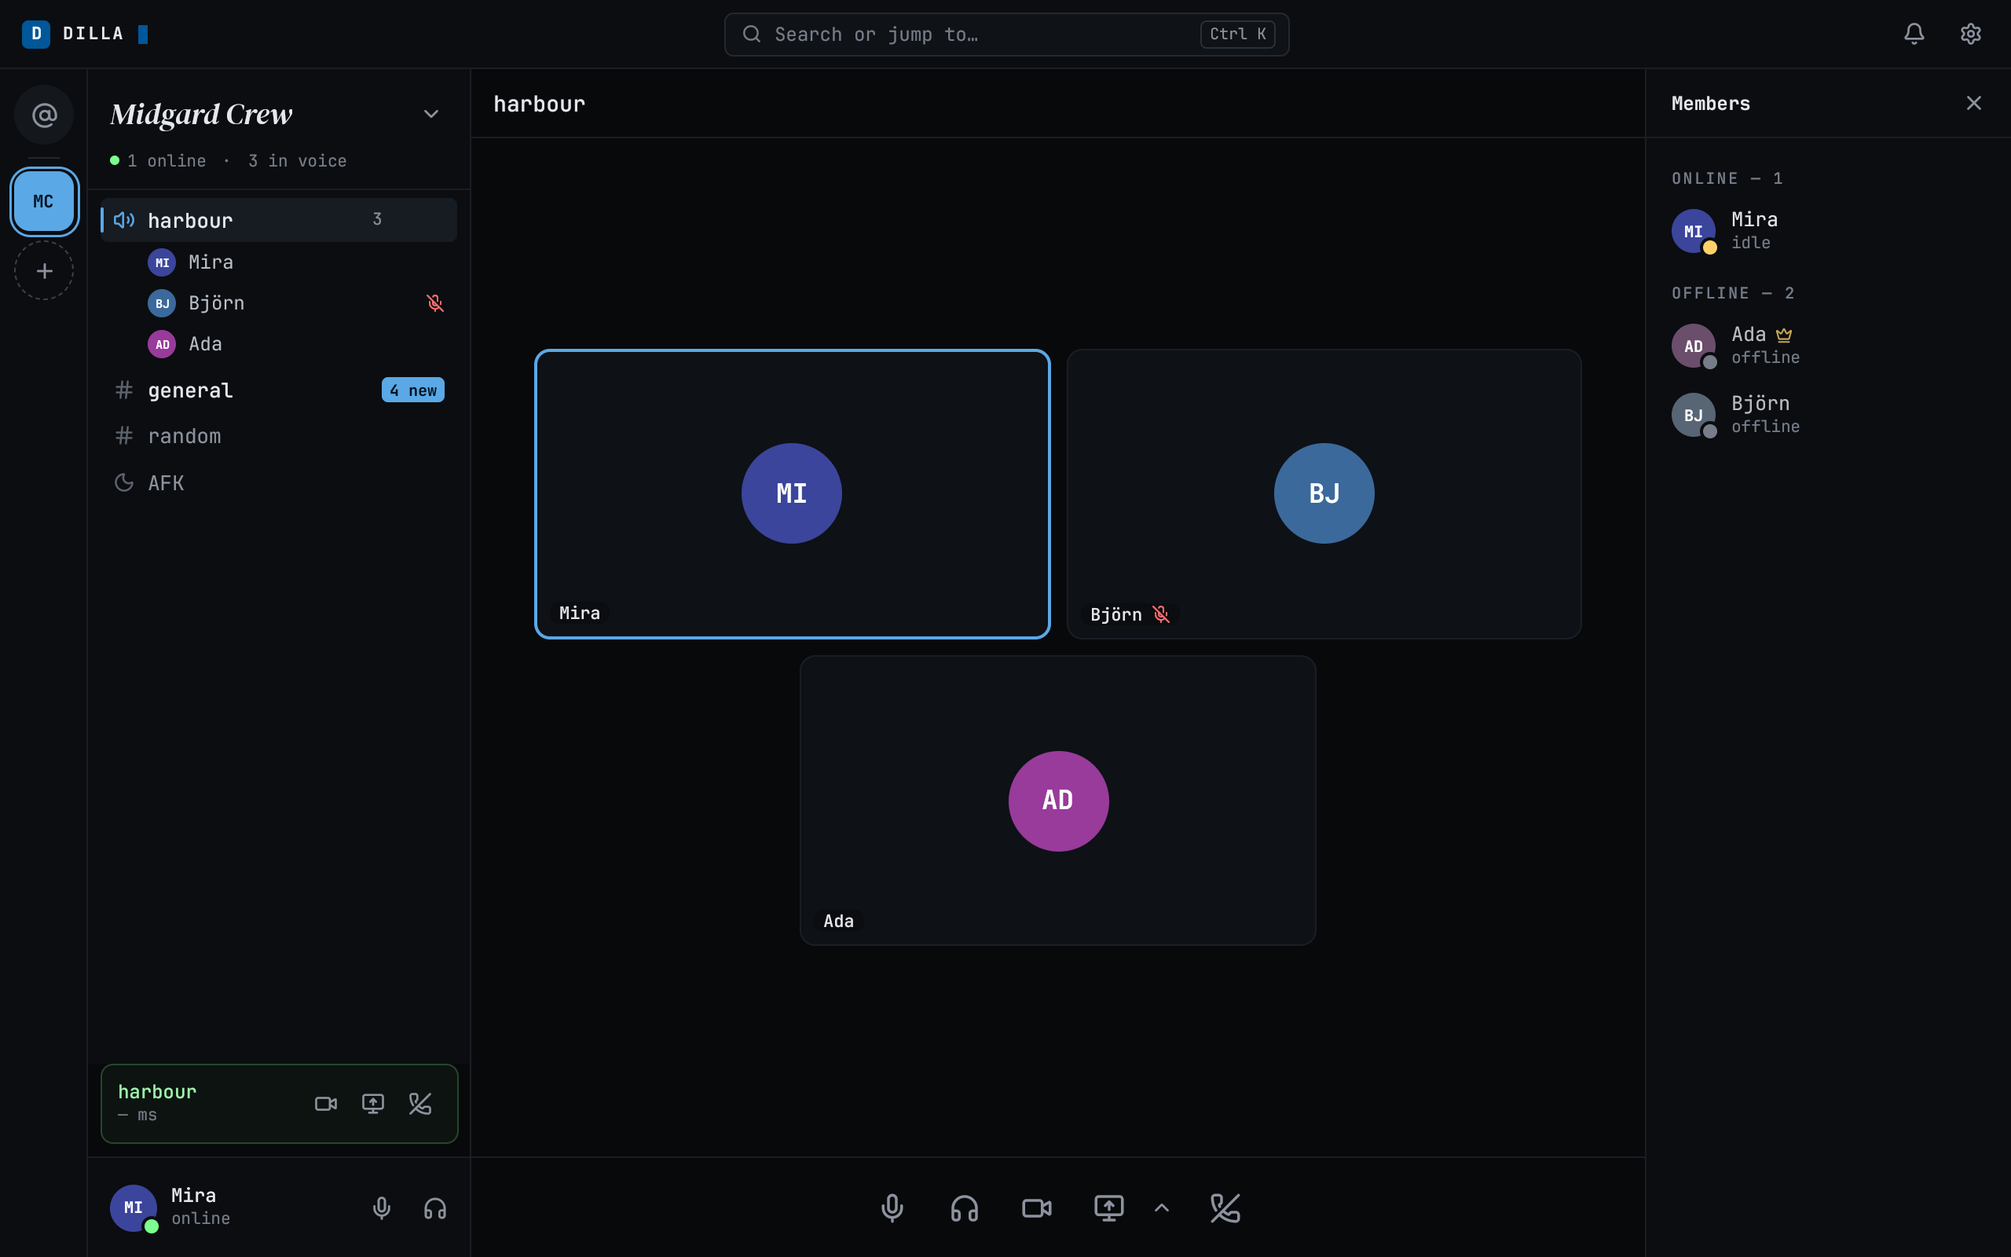
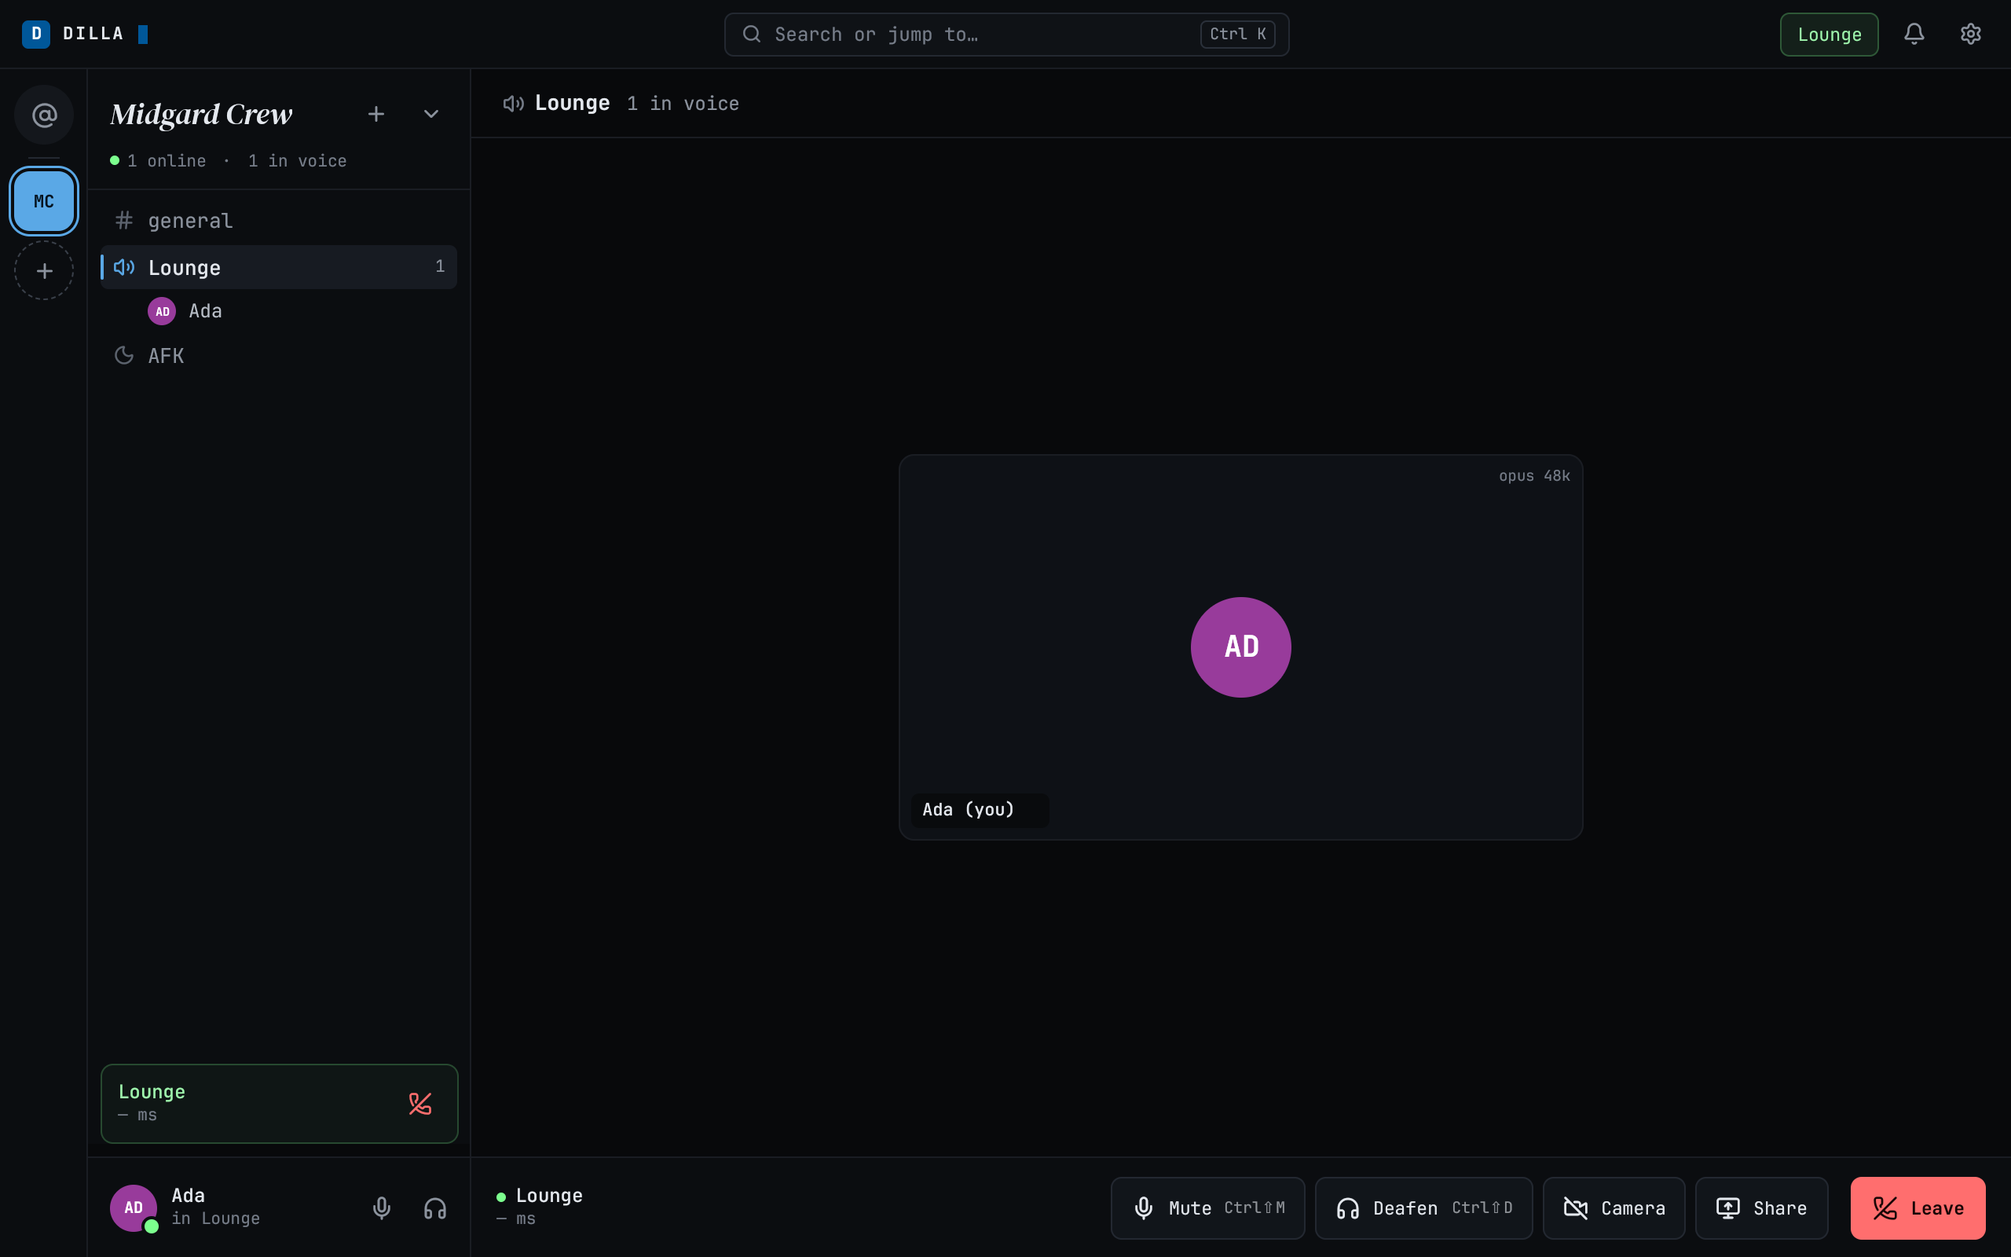
docs: the GPUI desktop's GUI gaps closed for alpha.2 (desktop, README, Bot docs, screenshots)
Claude-Session: https://claude.ai/code/session_012Nny5K2B969mk49QX3XSXG

diff --git a/README.md b/README.md
@@ -48,7 +48,7 @@ As of the Signal redesign, wave B (unreleased, 2026-10-31), on top of web3.12 (2
 
 ### The native desktop client (GPUI)
 
-As of the screens wave 1 (2026-11-13). The Rust/GPUI desktop client in `clients/desktop`. It replaces the Electron
+As of desktop alpha.2 (2026-11-21). The Rust/GPUI desktop client in `clients/desktop`. It replaces the Electron
 app, which is discontinued at `desktop-v0.1.0-beta.5` (installed copies get no further updates). Linux has alpha
 releases (`desktop-gpui-v0.2.0-alpha.N`: AppImage, tar.gz, deb, rpm and an AUR recipe; the packages replace an
 installed beta.5, [how to install it](docs/user/desktop.md#install-the-linux-alpha)); on macOS and Windows you build
@@ -61,19 +61,19 @@ measured). What works today, screen by screen:
 | Screen | State |
 |---|---|
 | Shell | The server rail, the channel list with categories you can fold (a Bot channel and a slow-mode channel say so on their row), the user panel (click your name for your status: online, idle, do not disturb, invisible; do not disturb holds the notifications; mute and deafen beside it), the channel header and the members aside, with a splitter between panes (widths and folded categories are kept per instance). Back and forward through the places you have been (Alt+Left, Alt+Right), the previous and next channel (Alt+Up, Alt+Down), Control/⌘+, for your settings. The boot screen, "dilla could not start" with a Try again action, a device the instance no longer accepts or whose stored key is gone explained, with Forget or Reset after a confirmation, and the offline and "this instance needs a newer app" banners. |
-| Messages | Markdown and code blocks, mentions with a list as you type, edit (Up in an empty composer edits your newest message) and delete of your own messages, pin and unpin, a draft kept per channel, a failed send with its reason and retry or discard, the typing signal, slow-mode and announcement-channel notices, the timed-out notice, Page Up and Page Down in the log. A member allowed to manage messages removes someone else's message for everyone, with a reason. |
-| Threads | The reply line, the reply bar, the thread pane with its own composer, the reply count on the root (Escape closes the pane). |
+| Messages | Markdown and code blocks, mentions with a list as you type, edit (Up in an empty composer edits your newest message) and delete of your own messages, pin and unpin, a draft kept per channel, a failed send with its reason and retry or discard, the typing signal, slow-mode and announcement-channel notices, the timed-out notice, Page Up and Page Down in the log. A member allowed to manage messages removes someone else's message for everyone, with a reason. Load earlier in channels and direct messages. Author names take their role colour, and the app animates as the web does (honouring Appearance → Motion and the system's reduced-motion setting); toasts show. |
+| Threads | The reply line, the reply bar, the thread pane with its own composer, the reply count on the root (Escape closes the pane). Slash commands and polls work in threads; a long thread has Load earlier (desktop only). |
 | Reactions | The reaction bar, the emoji grid from the composer and from the message toolbar, and who reacted. |
 | Attachments | The tray, file cards, the image grid, the lightbox, drag and drop, the GIF picker and saving a file. Audio plays inline (MP3, AAC, Vorbis, Opus, FLAC, WAV); so does video (WebM and MP4 with VP8, VP9, AV1, and H.264 except on macOS), with play, pause, seek, volume, full screen and the ⋮ menu (download, playback speed, picture in picture); a video it cannot decode opens in the system player. |
-| Direct messages and trust | The Home list of DMs, the DM picker, DM conversations, trust alerts when a contact's identity changes, the safety-number comparison, and Settings → Privacy. |
+| Direct messages and trust | The Home list of DMs, the DM picker, DM conversations, trust alerts when a contact's identity changes, the safety-number comparison, and Settings → Privacy. Unread dots on direct messages; names sort by your system's language. |
 | Members, roles and moderation | The members aside, the profile card and the person menu (message, mention, profile, edit roles, copy username, compare safety numbers, kick, ban) as your permissions allow, the moderation dialogs, and the Roles, Self roles, Members, Bans and Moderation log sections of the server settings. |
-| Server settings | Overview (name and AFK timeout, saved together; a dirty-draft guard on leaving; a section whose permission you lose falls back to one you still have), Channels, GIFs, Invites, Welcome, Join roles and Danger zone, only the sections your permissions allow. |
-| User settings | Profile, Devices (rename, remove a device with the recovery key, sign out), Appearance, Keyboard (the shortcut table), Privacy, Sign-in (password, authenticator app, passkeys, backup codes, each behind "Confirm it is you"), Notifications, Voice and Diagnostics. |
-| Voice, rings and AFK | Join and leave voice channels, the people under a channel, the dock, the stage with a tile per person (a person's camera or screen share is drawn when they send one; a focused tile has Grid and full screen), the person menu on a tile (right-click or Shift+F10: a person's or a stream's volume, applied to what you hear, Mute for me, profile, message, copy username; your own: mute, deafen, Move to another voice channel, leave), your own camera (Linux, Windows, macOS) and screen or window share from a picker with thumbnails (the system's dialog on Wayland and macOS), the stream quality applied live, and one application's sound with the share (Linux, Windows 10 2004 or newer, macOS 14.2 or newer), the call controls with the ping and ↑ ↓ kb/s, mute and deafen (Ctrl+Shift+M, Ctrl+Shift+D), push to talk while the window has focus (with the PTT tag on the mute button; AltGr with the key is refused on Linux too), Return to call in Settings, joining with no speaker or microphone (listening, as the Electron app did), DM calls with the incoming-ring banner (Enter answers, Escape declines), blocked calls and the comparison they offer, and the AFK channel's page and move notice. Calls are end-to-end encrypted. |
+| Server settings | Overview (name and AFK timeout, saved together; a dirty-draft guard on leaving; a section whose permission you lose falls back to one you still have), Channels, GIFs, Invites, Welcome, Join roles and Danger zone, only the sections your permissions allow. Welcome messages (channel and text, with Reload), ban details, and 22 px check boxes. |
+| User settings | Profile, Devices (rename, remove a device with the recovery key, sign out), Appearance, Keyboard (the shortcut table), Privacy, Sign-in (password, authenticator app, passkeys, backup codes, each behind "Confirm it is you"), Notifications, Voice and Diagnostics. The bio field resizes. |
+| Voice, rings and AFK | Join and leave voice channels, the people under a channel, the dock, the stage with a tile per person (a person's camera or screen share is drawn when they send one; a focused tile has Grid and full screen), the person menu on a tile (right-click or Shift+F10: a person's or a stream's volume, applied to what you hear, Mute for me, profile, message, copy username; your own: mute, deafen, Move to another voice channel, leave), your own camera (Linux, Windows, macOS) and screen or window share from a picker with thumbnails (the system's dialog on Wayland and macOS), the stream quality applied live, and one application's sound with the share (Linux, Windows 10 2004 or newer, macOS 14.2 or newer), the call controls with the ping and ↑ ↓ kb/s, mute and deafen (Ctrl+Shift+M, Ctrl+Shift+D), push to talk while the window has focus (with the PTT tag on the mute button; AltGr with the key is refused on Linux too), Return to call in Settings, joining with no speaker or microphone (listening, as the Electron app did), DM calls with the incoming-ring banner (Enter answers, Escape declines), blocked calls and the comparison they offer, and the AFK channel's page and move notice. Calls are end-to-end encrypted. The dock shows the link quality, and a shared window brings its application's sound. |
 | Voice settings | Input and output devices and volumes, the microphone test with its sensitivity meter, the input mode and the push-to-talk key (F13 to F24, Pause, Scroll Lock, Insert), noise suppression, echo cancellation, automatic gain, and the join, leave and ring sounds. |
-| Bot | The `/` command picker with named fields and greyed commands, private results, poll cards, reminders; in the server settings, the Bot page (its card with Restart and a menu to rename, refresh or disable the Bot, capabilities, health, Bot channels, webhooks, each change behind "Confirm it is you") and the Music page (which roles may DJ), with the Now playing row in the dock. |
+| Bot | The `/` command picker with named fields and greyed commands, private results, poll cards, reminders; in the server settings, the Bot page (its card with Restart and a menu to rename, refresh or disable the Bot, capabilities, health, Bot channels, webhooks, each change behind "Confirm it is you") and the Music page (which roles may DJ), with the Now playing row in the dock. Every built-in command runs, in channels and threads (an uncertain one reopens its draft); the poll form, scheduled announcements and role panels (`/rolepanel create`) open from the message box; the Bot's "started music" message has a now-playing card and the voice stage a now-playing bar. A channel row's menu sets its notify mode and has Edit channel. |
 | Notifications | The settings rows: the mode for the selected server and its @everyone switch, desktop notifications on this device, and one switch for the join, leave and ring sounds. Messages, mentions and rings raise operating-system notifications (a ring with Answer and Decline); a click opens the conversation. Rings and messages notify from the tray with every window closed, and after a start at login. On Linux an ended ring's notification is withdrawn and a newer message in a conversation replaces the earlier one. |
-| Search | The palette (Control/⌘+K or Ctrl+/) with Channels, People, Settings, Messages and Actions. Messages are found in this device's own decrypted history; the query never leaves the device. |
+| Search | The palette (Control/⌘+K or Ctrl+/) with Channels, People, Settings, Messages and Actions. Messages are found in this device's own decrypted history; the query never leaves the device. A result older than what is shown jumps to it. |
 | Diagnostics | Settings → Diagnostics: the connection, the slowest requests and the last 20 error codes, with Copy codes (codes only, nothing of your content). A log file for bug reports ([where it is](docs/user/desktop.md#logs); no content, keys or tokens). |
 | Onboarding | Sign-up with an invite (the account, the recovery key shown once), the second factor set-up, the done step, sign-in on a new device with the recovery key, a passkey or the instance's identity provider (in the system browser), create server, create channel (private from birth with the roles that may see it, or an announcement channel with the roles that may post), join by invite and the invite link. |
 | Second factor | Required for every account: the forced-factor screen, set-up of an authenticator app or a passkey, backup codes, and the step-up dialog. |
@@ -134,7 +134,8 @@ For the native desktop preview:
   alpha packages (AppImage, tar.gz, deb, rpm, AUR recipe), installed by hand. Clicking a `dilla://invite` link opens it in the
   app: the deb, rpm and Arch packages register the `dilla:` scheme, as do the macOS and Windows packages (an AppImage
   only through an integration tool such as AppImageLauncher; the tar.gz does not).
-- Push to talk while another window has focus. Screen readers are supported (AccessKit).
+- Push to talk while another window has focus (system-wide push to talk). Screen readers are supported (AccessKit).
+- Compact message density outside settings.
 
 Beyond the web client: the native [desktop client](docs/user/desktop.md) has Linux alpha releases and is built from
 source on macOS and Windows; the Electron app is discontinued at `desktop-v0.1.0-beta.5`. The browser client is deprecated. The [mobile app](docs/user/mobile.md) is a preview on TestFlight and as an APK. There is no

diff --git a/docs/user/desktop.md b/docs/user/desktop.md
@@ -32,11 +32,54 @@ These are frames of the client itself (Linux, 1280 by 800 at twice the scale), s
 
 ![Server settings, Overview: the server's name and AFK timeout](screenshots/gpui-server-settings.png)
 
-![Your settings, Profile: display name, status and bio, with the card others see](screenshots/gpui-user-settings.png)
+![Your settings, Profile: display name, status and bio (drag its corner to make it taller), with the card others see](screenshots/gpui-user-settings.png)
 
 ![The search palette with results for "bridge"](screenshots/gpui-search.png)
 
 ![Sign-up, step 3 of 6: the recovery key, shown once](screenshots/gpui-onboarding-recovery-key.png)
+
+![The Bot's "started music" message with its now-playing card](screenshots/gpui-music-card.png)
+
+![The poll form over #general: question, answers, how long it stays open](screenshots/gpui-poll-form.png)
+
+![Server settings, Welcome messages: the channel, the message and the placeholders](screenshots/gpui-welcome-settings.png)
+
+### What the app does
+
+**Everyday use**
+
+- The app moves the way the browser did: new messages, menus, dialogs, toasts, badges, the speaking meter, the typing
+  indicator and the caret animate. Settings → Appearance → Motion and your system's reduced-motion setting turn it
+  down. Toasts (a copied link, a failed upload) now show.
+- Author names take the colour of their highest coloured role. Names sort by your system's language (the DM picker, the
+  member lists and the @-mention list).
+- The reply bar and the attachment tray sit over the message box. A direct message with something new has an unread dot.
+- **Load earlier** at the top of a channel, a direct message or a thread fetches older messages. A search result older
+  than what is shown jumps to it.
+- A channel row's menu (right-click or Shift+F10) sets how it notifies you (all messages, mentions or nothing) and has
+  **Edit channel**.
+- The call dock shows the link quality (the ping and the data rate, coloured when it is poor).
+- Two banners explain a stopped state: "You are no longer in {server}" after you were removed, and "this instance is
+  older" when the server needs an update before the app can use it.
+
+#### Polls and commands
+
+- Every built-in `/` command runs in channels and in threads. A command whose outcome is uncertain reopens its draft
+  instead of sending twice ([the commands](bot-commands.md)).
+- `/poll create` opens the poll form; polls work in threads.
+- `/announcement create` schedules an announcement and `/rolepanel create` posts a role panel, both from the message box.
+- The Bot's "started music" message carries a now-playing card, and the voice stage has a now-playing bar
+  ([music](music.md)).
+
+**Settings and moderation**
+
+- A ban shows its details: who, when, why and for how long.
+- Server settings → Welcome messages sets the channel and text the Bot welcomes new members with.
+- Check boxes are 22 px, and the bio field in your profile can be dragged taller by its corner grip.
+- Compact message density applies inside settings only, for now.
+
+**Desktop only.** Two things the browser does not have: a channel's menu also has **Mark as read** and **Copy link**, and a
+thread's pane has **Load earlier** for a long thread.
 
 ### Install the Linux alpha
 
@@ -264,6 +307,7 @@ what the client still does not do.
   the newest message; Up, Down, Home and End step through the messages, Tab reaches the focused message's actions and
   Escape goes back to the composer. The recovery key and an authenticator's setup key are read out only on request: Tab to "Read aloud" beside them
   (shown while it has the focus) and press it; the key is read once, in groups of four.
+- **Compact density:** applies only inside settings; the message log keeps its normal density.
 - **Push to talk outside the window:** the key works only while the app has focus. Operating-system-wide push to talk
   comes after the switch.
 - **Video playback speed:** a speed other than Normal changes the pitch of the sound (the browser kept it).

diff --git a/docs/user/bot-commands.md b/docs/user/bot-commands.md
@@ -10,6 +10,11 @@ draft. You can also type a complete command and its named arguments. Normal
 mentions, multiline text, IME input, and attachments keep their usual behavior.
 
 Command drafts stay separate from text drafts for each conversation and thread.
+
+**In the desktop app** every built-in command runs, in channels and in threads, with the same picker, chips and private
+results. A command whose outcome is uncertain (the connection dropped before the answer) reopens its draft instead of
+being sent twice. The poll form, the announcement editor and the role panel editor (`/rolepanel create`) open as
+dialogs, as in the browser.
 A command does not take an unrelated reply or attachment with it. Unknown slash
 input stays private. Choose **Send as text**, or prefix the text with `//`, to post
 a slash literally. Ordinary messages, edits, history replay, and bot-authored
@@ -198,6 +203,8 @@ The form stays open when the Bot's command list refreshes in the background. If 
 while the form is open, the form closes and a private reply says "The Bot stopped offering polls. Try again."
 
 ![Create a poll](screenshots/signal-poll-dialog.png)
+
+The desktop app draws the same form, and polls in threads work there too (see [Dilla desktop](desktop.md#polls-and-commands)).
 
 Voting is single-choice by default; the creator can enable multiple
 choices. The poll shows named voters. Members can replace or withdraw their vote.

diff --git a/docs/user/music.md b/docs/user/music.md
@@ -60,8 +60,13 @@ only for the person whose track just started, at most once a minute, and only in
 a channel where that person may post. Queuing more tracks, pausing, skipping and
 the other commands stay private.
 
+In the desktop app the "started music" message carries a now-playing card under it: the track, a progress bar, pause,
+skip and stop, the volume and "Up next". When another track plays, the card turns into "played this in {channel}".
+
+![The now-playing card under the Bot's message](screenshots/gpui-music-card.png)
+
 While you are in the voice channel with the bot, the same player sits in your
-voice panel and at the top of the voice stage. Its controls work for DJs, owners
+voice panel and, in the desktop app, in a bar at the top of the voice stage. Its controls work for DJs, owners
 and administrators who are in that voice channel; anyone else sees a note saying
 why. Commands target the voice channel the requester joined. Playback changes
 require **Control music (DJ)** in that voice channel (owners and administrators have
